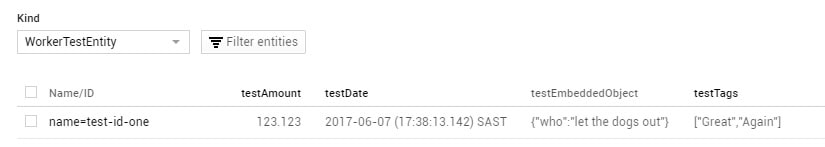
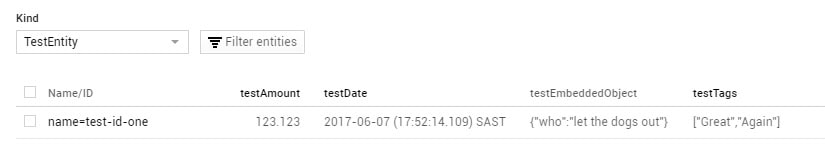
fixing image

diff --git a/README.md b/README.md
@@ -188,4 +188,6 @@ await TestEntityModel.save(entity).run();
 
 This will validate and convert all the entity data from the JavaScript object according to our schema, and save the entity in the Datastore as a `TestEntity` kind with the id `test-id-one`, it would end up like this in your Cloud Datastore Console:
 
-![Google Cloud Console view](https://github.com/lostpebble/pebblebed/raw/master/resources/entity-save-console.png "Google Cloud Console view")
+![Google Cloud Console view](https://github.com/lostpebble/pebblebed/raw/master/resources/entity-save-console.jpg "Google Cloud Console view")
+
+**Note that the `testID` property has been used as the ID, and NOT persisted as a property**
